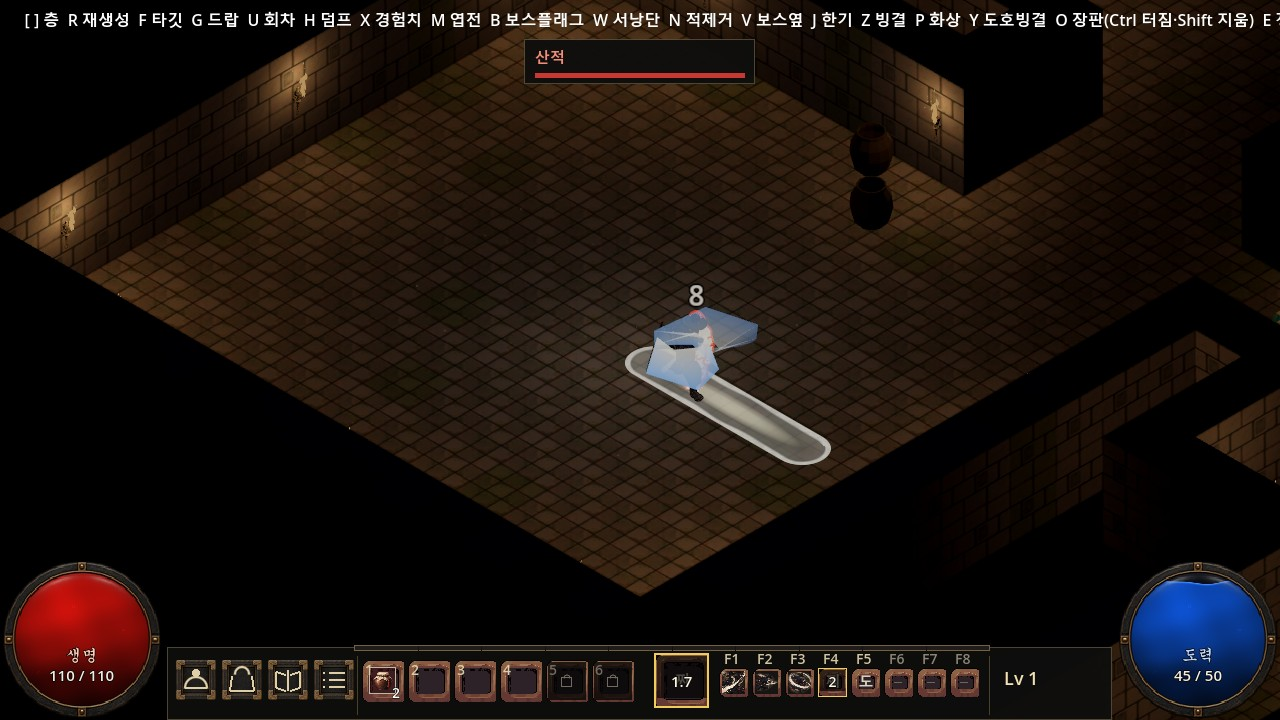
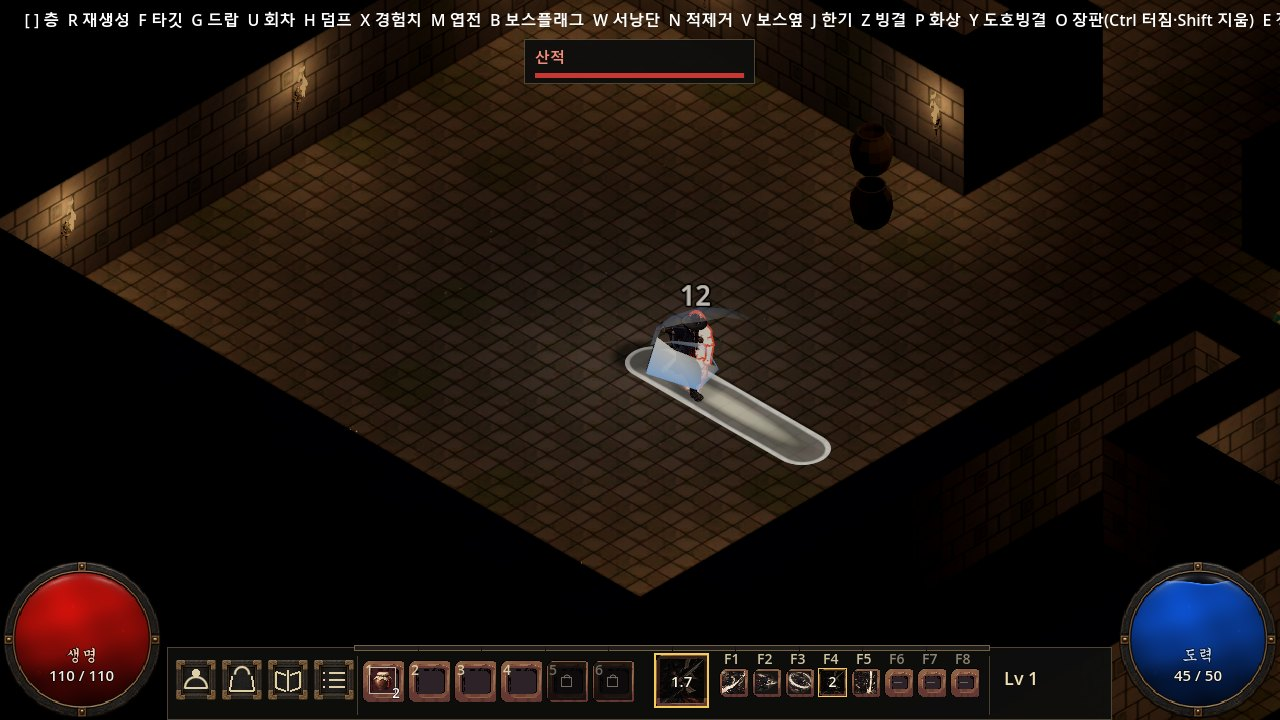
art(#595): show current combined animation and thrust proof
Update native after images for #595 and #596; preserve before images and physical sample graphs. Natural cohort121/121 and native65; candidates awaiting PD. No raw traces or paid generation.

Agent: Codex (GPT-6)

Changed region(s): [[0.4688, 0.3972, 0.5938, 0.55], [0.625, 0.9167, 0.6875, 0.9778], [0.5, 0.9167, 0.5625, 0.9778]]

diff --git a/reports/595/2026-10-03_animation_clock/README.md b/reports/595/2026-10-03_animation_clock/README.md
@@ -4,4 +4,10 @@
 
 Pairs: attack, strike, thrust before/after. Six JPEGs<=1280px and<=300KB. Photos show poses/effects; event logs decide timing. Full cohort pending at this source freeze. Large raw: G:/내 드라이브/JoseonHunters_raw/595/2026-10-03_animation_clock/. Mapped-file SHA readback only; cloud sync unverified.
 
-Game candidate commit: 56afa4fc9732d3771cfcc93213160939b275f142. These are comparison screenshots, not a newly adopted art design. Numerical validation: before64/65, initial60/65, calibrated64/65, remaining pre-existing thrust. First natural focused run30/30 PASS, cohort comparison pending. No new paid generation, no game main integration.
+첫 선언 full1은119/121(찌르기·도장 관측 실패)이며 원문 보존. 실제 피해 경계의 도장 관측 보수는 기존93검사 PASS. 그림은 같은 런타임 후보의 실제 창 전후이고, 부모536/최종전체PASS/찌르기596 완료를 뜻하지 않는다. 보수된 후보의 전체 검사는 후속 찌르기 후보와 함께 별도 수행해야 한다.
+
+## 현재 후보 — 시계·도장 관측·찌르기 준비 시간 결합
+
+후보 `e42f139a`의 선언 focused2회 각30, 전체 `121/121 PASS`, 실제 창65/65를 확인했다. before3장은 최초 런타임 변경 전 화면, after3장은 이 최신 통합 후보의 같은 시나리오·구도다. 중간64/65와 첫 후보60/65 화면·첫 전체119/121 실패는 비공개 원문에 보존했다. 최신 그림에는 이미 승인된 main의 그림자/스킬 아이콘 갱신도 들어 있다. 정지사진은 닿음 자세이며 준비 속도 변화는596 곡선을 같이 본다. 기존 gallery 경로는 유지하고 before3 바이트도 보존했다. 준비 단계 틱·17소수 시간 및 이벤트 순서의 차이는 원문 그대로 남아 부모536의 완료를 뜻하지 않는다. 최종 채택·main 착륙 전 검수판이다.
+
+Review commit 1b53c98729181a4c2773dcec7cd960df055b120d; tested runtime e42f139a0b7a0cfaaf2e40826f06088429dee75f. Natural focused2 ×30, full121/121, native65. Candidate only; PD adoption/game main/game push pending. Raw/failed attempts privately retained.

diff --git a/reports/596/2026-10-03_thrust_sync/README.md b/reports/596/2026-10-03_thrust_sync/README.md
@@ -6,4 +6,6 @@ thrust_before/after: 같은 anim_commit 무대/카메라의 피해 사진. befor
 
 JPG4 <=1280폭·300KB/장. FullPNG·실패/진단 원문·실제 엔진phase·전후ModelDef·도구는 `G:/내 드라이브/JoseonHunters_raw/596/2026-10-03_thrust_sync/`에 보존. 드라이브 로컬 readback SHA만 확인, cloudsync 미확인. 기존 전후모션 형상이 변하지 않고 준비 시간만 변한 이유·기각 대안은 thrust_sync_596.md §5.
 
-Game candidate: 0edc75a804f9c38a93e19781f5973ede01245c41. No paid generation. Game main not integrated. Four compact review images; raw104files11,213,718B preserved privately with readback SHA.
+시계595/관측 보수를 결합한 후보 `e42f139a`의 자연focused2회 각30·전체 `121/121 PASS`·실제창65/65도 확인했다. thrust_after는 그 최신 실제 창으로 갱신(같은 시나리오/카메라, main의 승인 그림자·스킬 아이콘 포함); 기존 before와 두 곡선은 원본 그대로다. 원문과 최초 after는 드라이브에 보존, 부모536 미완료·최종채택/착륙 전이다.
+
+Review commit 1b53c98729181a4c2773dcec7cd960df055b120d; tested runtime e42f139a0b7a0cfaaf2e40826f06088429dee75f. Natural focused2 ×30, full121/121, native65. Candidate only; PD adoption/game main/game push pending. Raw/failed attempts privately retained.
